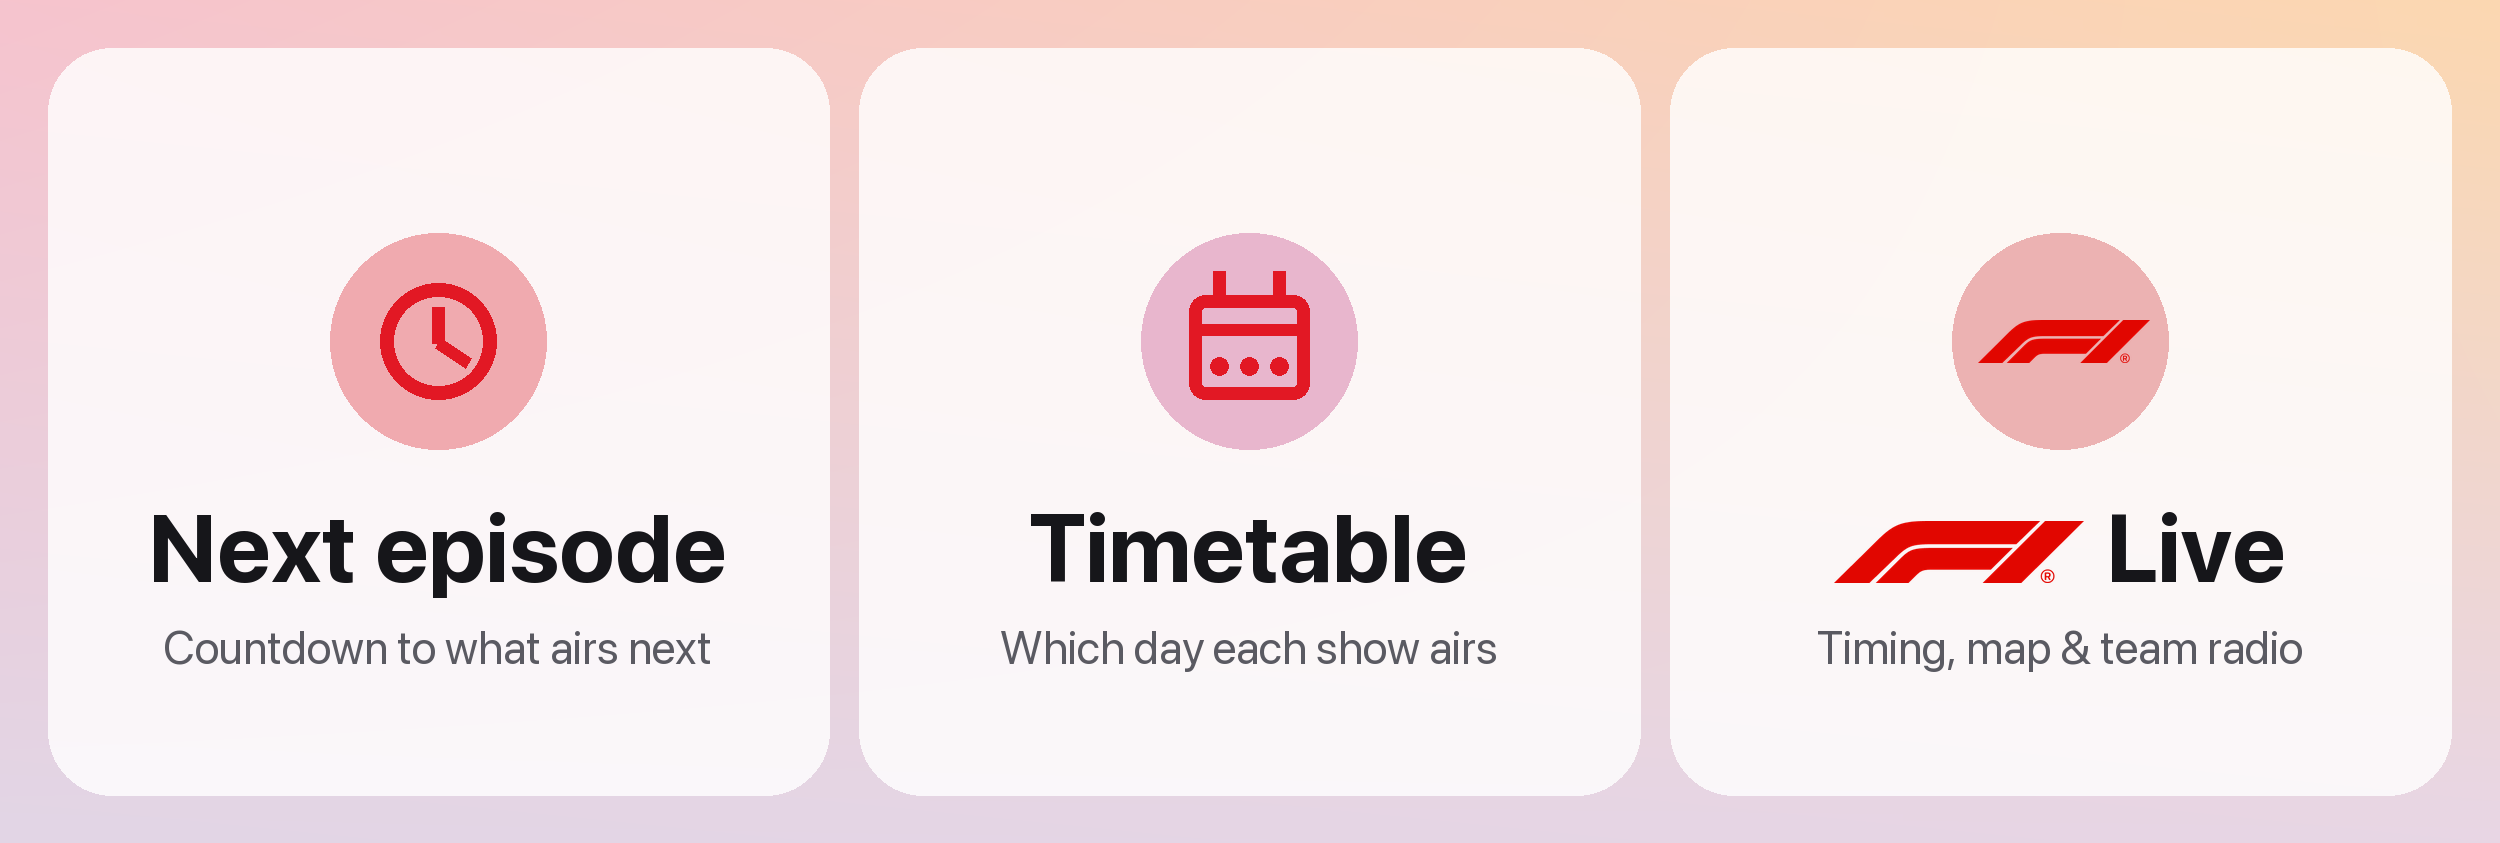
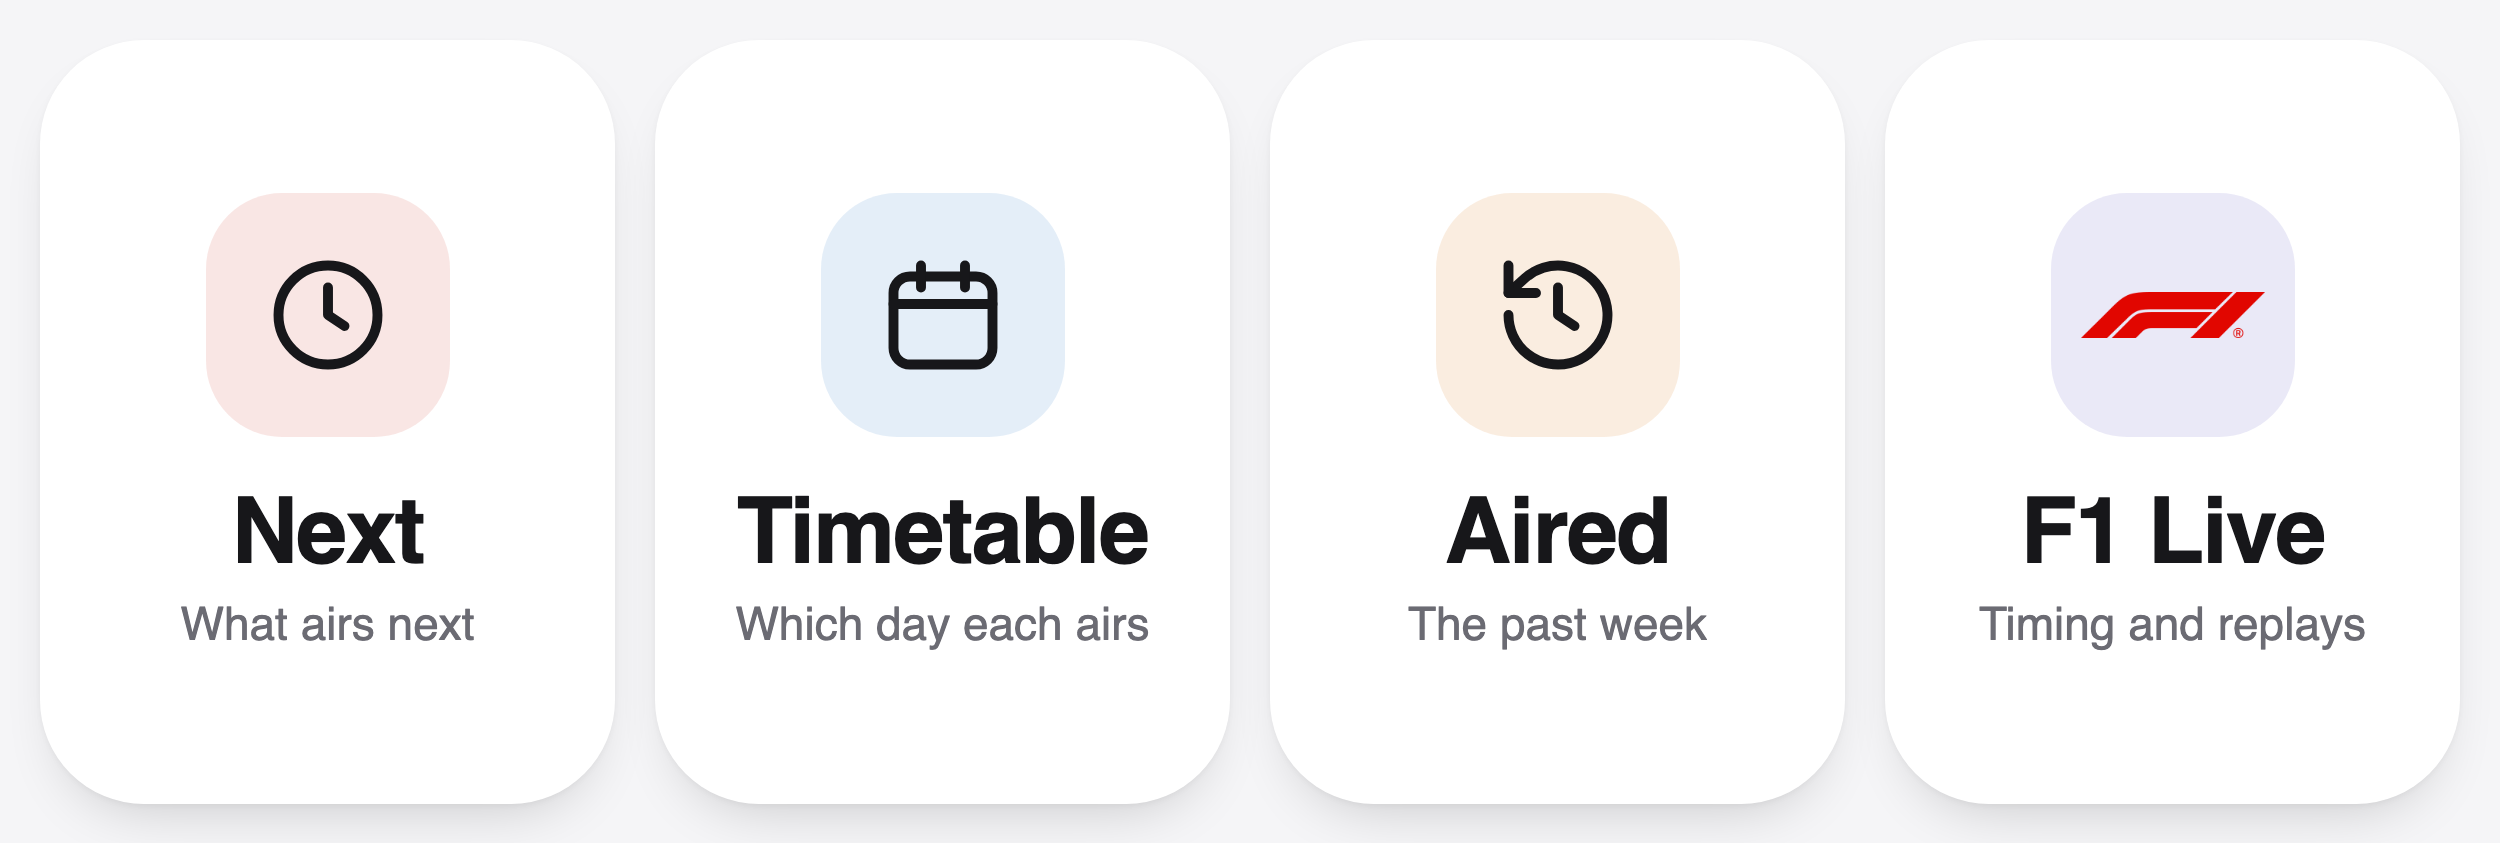
LINE menu in the website's new style: Next, Timetable, Aired and F1 Live

diff --git a/richmenu.html b/richmenu.html
@@ -1,0 +1,18 @@
+<!doctype html>
+<!-- The LINE chat menu, in the ป้าคีน style. To change it: edit this, screenshot it at 1250 x 422 with a device scale of 2 (headless Chrome),
+     crop to 2500 x 843, save as richmenu.png, and run the watch workflow with "richmenu". The four boxes match setup_richmenu in watch.py. -->
+<html><head><meta charset="utf-8"><style>
+html, body { margin: 0; width: 1250px; height: 422px; overflow: hidden; background: #F5F5F7; }
+body { display: grid; grid-template-columns: repeat(4, 1fr); padding: 20px 10px; box-sizing: border-box; font-family: -apple-system, "SF Pro Text", Helvetica, sans-serif; color: #17171A; }
+.tile { margin: 0 10px; background: #FFF; border-radius: 52px; box-shadow: 0 1px 3px #0000000A, 0 14px 30px -14px #00000033; display: grid; justify-items: center; align-content: center; text-align: center; }
+.icon { width: 122px; height: 122px; border-radius: 38px; display: grid; place-items: center; margin-bottom: 22px; }
+.icon svg { width: 66px; height: 66px; fill: none; stroke: #17171A; stroke-width: 1.8; stroke-linecap: round; stroke-linejoin: round; }
+.icon img { width: 92px; }
+b { font-size: 46px; font-weight: 700; letter-spacing: -.02em; line-height: 1.1; }
+span { font-size: 23px; color: #6B6B73; margin-top: 8px; }
+</style></head><body>
+<div class="tile"><div class="icon" style="background:#E58C8438"><svg viewBox="0 0 24 24"><circle cx="12" cy="12" r="9"/><path d="M12 7v5l3 2"/></svg></div><b>Next</b><span>What airs next</span></div>
+<div class="tile"><div class="icon" style="background:#86B2DE38"><svg viewBox="0 0 24 24"><rect x="3" y="5" width="18" height="16" rx="3"/><path d="M3 10h18M8 3v4M16 3v4"/></svg></div><b>Timetable</b><span>Which day each airs</span></div>
+<div class="tile"><div class="icon" style="background:#E8AC7238"><svg viewBox="0 0 24 24"><path d="M3 12a9 9 0 1 0 3-6.7L3 8"/><path d="M3 3v5h5M12 7v5l3 2"/></svg></div><b>Aired</b><span>The past week</span></div>
+<div class="tile"><div class="icon" style="background:#9F9DDA38"><img src="https://isaraapae.github.io/alert-watch/f1-logo.png" alt=""></div><b>F1 Live</b><span>Timing and replays</span></div>
+</body></html>

diff --git a/watch.py b/watch.py
@@ -1410,7 +1410,7 @@ def anime(state):
 
 
 def setup_richmenu():
-    """Install the Alert Watch menu at the bottom of the LINE chat: three buttons, the anime countdown, its timetable and F1 Live.
+    """Install the Alert Watch menu at the bottom of the LINE chat: four buttons, the anime countdown, its timetable, what aired and F1 Live.
     Run once (workflow input richmenu); replaces any earlier menu this created."""
     auth = {"Authorization": f"Bearer {os.environ['LINE_TOKEN']}"}
 
@@ -1424,9 +1424,8 @@ def setup_richmenu():
 
     site = "https://isaraapae.github.io/alert-watch/anime/"
     menu = {"size": {"width": 2500, "height": 843}, "selected": True, "name": "Alert Watch", "chatBarText": "Menu",
-            "areas": [{"bounds": {"x": 0, "y": 0, "width": 833, "height": 843}, "action": {"type": "uri", "label": "Next episode", "uri": site}},
-                      {"bounds": {"x": 833, "y": 0, "width": 834, "height": 843}, "action": {"type": "uri", "label": "Timetable", "uri": site + "?v=week"}},
-                      {"bounds": {"x": 1667, "y": 0, "width": 833, "height": 843}, "action": {"type": "uri", "label": "F1 Live", "uri": F1_PAGE}}]}
+            "areas": [{"bounds": {"x": 625 * n, "y": 0, "width": 625, "height": 843}, "action": {"type": "uri", "label": label, "uri": uri}}
+                      for n, (label, uri) in enumerate([("Next", site), ("Timetable", site + "?v=week"), ("Aired", site + "?v=aired"), ("F1 Live", F1_PAGE)])]}
     old = [m["richMenuId"] for m in call("GET", "https://api.line.me/v2/bot/richmenu/list")["richmenus"] if m["name"] == "Alert Watch"]
     rid = call("POST", "https://api.line.me/v2/bot/richmenu", json.dumps(menu).encode())["richMenuId"]
     call("POST", f"https://api-data.line.me/v2/bot/richmenu/{rid}/content", (HERE / "richmenu.png").read_bytes(), "image/png")

diff --git a/README.md b/README.md
@@ -4,7 +4,7 @@ Sends a LINE message (official account **Alert Watch**) when a tracked manga cha
 
 - **Website:** https://isaraapae.github.io/alert-watch/anime/ (the old address, https://isaraapae.github.io/alert-watch/, forwards there; the move gave iPhone Safari a fresh address after it had remembered "no icon" for the old one). In the same style as [ป้าคีน](https://github.com/IsaraApae/paakeen): a floating menu (Next, Timetable, Aired) and a round Appearance button at the top. It has a countdown to the next episode, the next 7 days, and the episodes that aired in the past week with their Watch buttons (**Next episode**), plus a Monday–Sunday **Weekly timetable** (`?v=week`). Times are Thai time.
 - **F1 Live:** https://isaraapae.github.io/f1-live/, its own site and repo ([IsaraApae/f1-live](https://github.com/IsaraApae/f1-live)): live timing, the track on a real map, calendar, standings, replays and lap battles.
-- **LINE menu:** three buttons: **Next episode**, **Timetable** and **F1 Live**. The menu image is [richmenu.png](richmenu.png).
+- **LINE menu:** four buttons, in the same style as the website: **Next**, **Timetable**, **Aired** and **F1 Live**. The menu image is [richmenu.png](richmenu.png), drawn from [richmenu.html](richmenu.html).
 
 ## What gets an alert
 
